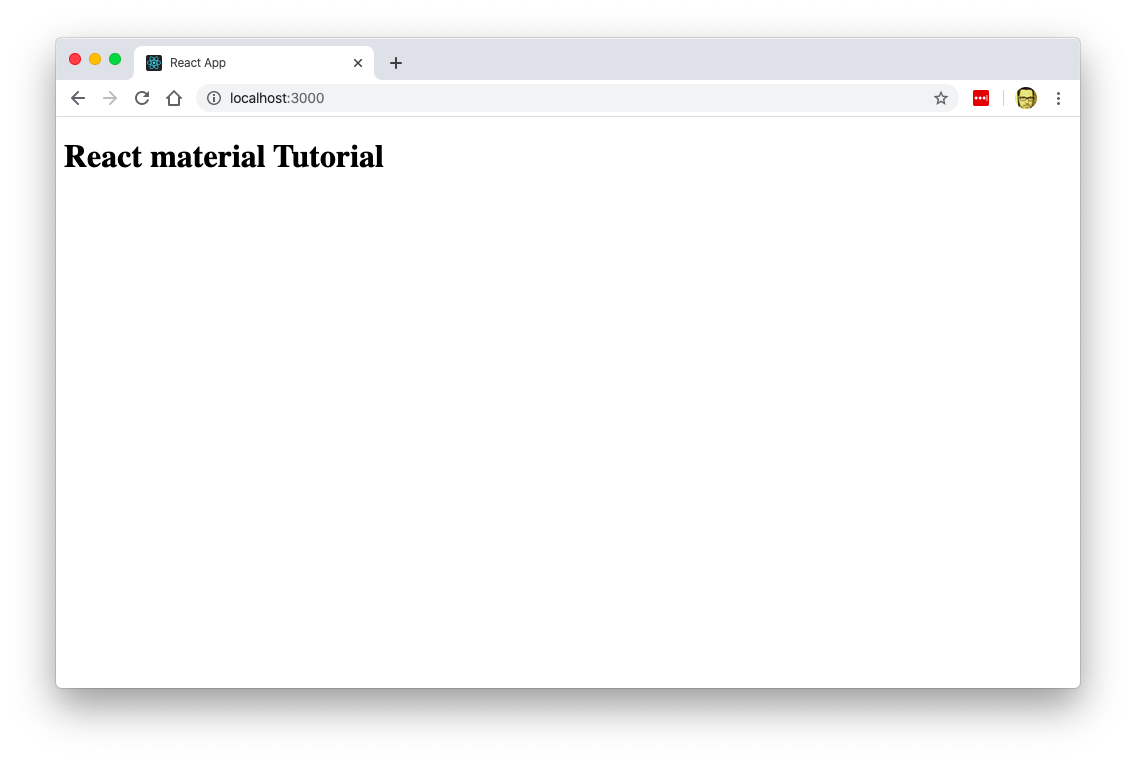
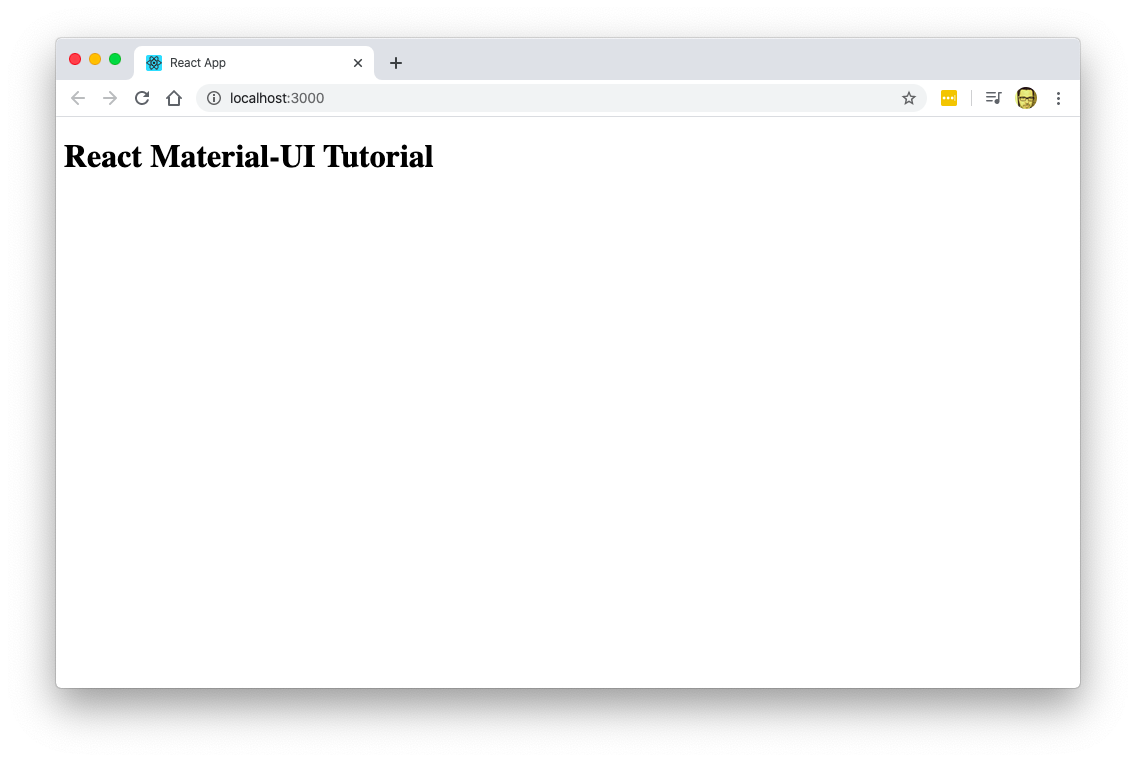
Changing the default background of the manifest and changes on the Material-UI article

Changed region(s): [[0.1232, 0.1811, 0.4005, 0.2415], [0.8011, 0.1207, 0.8935, 0.1509], [0.1232, 0.0604, 0.154, 0.0906]]

diff --git a/gatsby-config.js b/gatsby-config.js
@@ -12,7 +12,7 @@ module.exports = {
         name: `Mario's Personal Portfolio and Blog`,
         short_name: `Mario's Blog `,
         start_url: `/`,
-        background_color: `#F50057`,
+        background_color: `#2962ff`,
         theme_color: `#2962ff`,
         display: `minimal-ui`,
         icon: `src/images/icon-developer.png`, // This path is relative to the root of the site.

diff --git a/posts/react-material-ui-tutorial/index.md b/posts/react-material-ui-tutorial/index.md
@@ -1,7 +1,7 @@
 ---
 title: Getting Started with React Material-UI
 date: 2020-02-20
-tags: javascript, materialui, css, react
+tags: javascript, material-ui, css, react
 ---
 
 # Getting Started with React Material-UI
@@ -13,44 +13,42 @@ But the problem is that the official docs assume that you already are familiar w
 
 So I decided to create my own documentation just for that and here it is.
 
+In this blog entry I'm going to create a very simple React App that does nothing, but that it looks good thanks to Material-UI.
+
 ## What is Material-UI ?
 
-Well... Its just a bunch of React components styled using the [material design principles](https://material.io) that are ready to use.
+If you are here is very probable that you already know Material-UI is... But just in case, Material-UI its just a bunch of React components styled using the [material design principles](https://material.io) that are ready to use in any React App.
 
 If you want to start a React Project and don't want to get caught up in the details of styling you app, then Material-UI is just what you need.
 
-
 ## Create a react project and install Material-UI
 
-This is very straight forward. We just need to...
+Lets start our App by doing the following:
 
 - Create the project with `create-react-app`
 - Install Material-UI to the project
 - Add the Roboto Google font
-- Clenaup files
-
-Additionally (and recommended)
-
+- Cleanup files
 - Add the responsive meta-tag
-- Reset the styles with [CssBaseline](https://material-ui.com/components/css-baseline/)
 
-
-**Note* I'm using `yarn` instead of `npm` for installing packages and executing commands since its  faster. You can use `npm` without any problems.
+**Note I'm using `yarn` instead of `npm` for installing packages and executing commands since its  faster. You can use `npm` without any problems.**
 
 ### Create the react app and install Material-UI
 
-You must know this by now. If not [read and follow the tutorial](https://reactjs.org/tutorial/tutorial.html)
+You must know this by now. If not, then you should be following [this tutorial instead](https://reactjs.org/tutorial/tutorial.html)
 
 ```bash
 mkdir react-material-ui-tutorial
 cd react-material-ui-tutorial
-npx create-react-app .
+yarn create react-app . # npx create-react-app .
 yarn add @material-ui/core
 ```
 
 ### Add the Roboto Font and add the responsive meta-tag
 
-Then open `public/index.html` with your browser and add the following lines before the closing of the `<head>` tag:
+This 2 lines should go into `public/index.html` before the closing of the `<head>` tag.
+
+The first one makes our layout to be responsive. The second one loads the _Roboto_ font form [Google Fonts](https://fonts.google.com)
 
 ```html
     <meta name="viewport" content="minimum-scale=1, initial-scale=1, width=device-width" />
@@ -64,16 +62,18 @@ Then open `public/index.html` with your browser and add the following lines befo
 
 ### Project cleanup
 
-Now lets remove unneeded files in `src`, leaving only `index.js` and `App.js` in that dir.
+Now lets remove unneeded files the `src/` folder, leaving only `index.js` and `App.js` in that dir.
 
 ```bash
 rm src/{App.css,App.test.js,index.css,logo.svg,serviceWorker.js,setupTests.js}
 tree src/
 ```
 
+> Were using some Bash magic there. Curly brackets allow you to append a list of files.
+
 The `src/` directory should look like this:
 
-```
+```bash
 $ tree src
 src
 ├── App.js
@@ -84,7 +84,7 @@ src
 
 ### Refactor `App.js` and `index.js`
 
-Then refactor `index.js` so it doesn't try to import the removed files. At the end it should look like this:
+Then refactor `src/index.js` so it doesn't try to import the removed files. At the end it should look like this:
 
 ```js
 // src/index.js
@@ -105,12 +105,18 @@ import React from 'react';
 function App() {
   return (
     <div className="App">
-      <h1>React material Tutorial</h1>
+      <h1>React Material-UI Tutorial</h1>
     </div>
   );
 }
 
 export default App;
+```
+
+And start the development to see that we don't have any errors or issues. # Execute this in your terminal:
+
+```bash
+yarn start
 ```
 
 ![Image of the title Exercises](first-yarn-start.png)
@@ -121,9 +127,9 @@ Great now we can start adding Material-UI components
 
 If you've worked with a framework like Bootstrap, Bulma, Tailwind, etc. You've noticed that one of the first things they recommend is to use a CSS library like `normalize.css` or `reboot.css` to unify or resets the display of native controls.
 
-Materia-UI has its own Control just for that and it called [CssBaseline](https://material-ui.com/components/css-baseline/).
+Material-UI has its own Control just for that and it called [CssBaseline](https://material-ui.com/components/css-baseline/).
 
-Adding baseline couldn't be easier. Just import the component and add it in  `index.js`
+Adding baseline couldn't be easier. Just import the component and add it in  `src/index.js`
 
 ```js {4,8-11}
 // src/index.js
@@ -152,9 +158,16 @@ That would render the following:
 
 Its not much.. but now we have a base line (hence the name) for all the styles so they look the same **in all browsers**
 
-## Adding some test content
+## Adding our first elements
 
-Before we continue with our setup. Lets create some content in our app so we can actually see some changes. Lest add a couple of buttons and some text in `App.js`:
+Adding Material-UI is usually a 2 step process:
+
+- Import the component you need
+- Include it in your JSX
+
+Of course you can (and sometimes must) use properties to configure the component to your needs.
+
+So lets change our `src/App.js` file to include some content and a couple of buttons:
 
 ```js {2,9-16}
 // src/App.js
@@ -164,7 +177,7 @@ import { Button } from '@material-ui/core'
 function App() {
   return (
     <div className="App">
-      <h1>React material Tutorial</h1>
+      <h1>React Material-UI Tutorial</h1>
       <h2>This Could be a subtitle</h2>
       <p>And this is a paragraph</p>
       <Button variant="contained" color="primary">
@@ -178,14 +191,65 @@ function App() {
 }
 
 export default App;
-
 ```
 
 Which would render this:
 
 ![Some test content](start-content.png)
 
-With this basic content we can add some material magic and actually see the changes.
+As you can see, we now have a page with 2 buttons: One primary (the blue one) and one secondary.
+
+## Create layouts using Grid
+
+Right now our content seems kind of _Thrown out There_. that's because we're not using any kind of layout or placement.
+
+Lets fix that by using a [Material-UI Grid system](https://material-ui.com/components/grid/) so our content is in the middle and centered. Lets edit `src/App.js` with the following:
+
+```js
+import React from 'react';
+import { Button, Grid, Container } from '@material-ui/core';
+
+function App() {
+  return (
+    <div className="App">
+      <Container maxWidth="md">
+        <Grid item md={12}>
+          <h1>React Material-UI Tutorial</h1>
+          <h2>This Could be a subtitle</h2>
+          <p>And this is a paragraph</p>
+          <Grid container>
+            <Grid item md={6}>
+              <Button variant="contained" color="primary">
+                A Primary button
+              </Button>
+            </Grid>
+            <Grid item md={6}>
+              <Button variant="contained" color="secondary">
+                A Secondary button
+              </Button>
+            </Grid>
+          </Grid>
+        </Grid>
+      </Container>
+    </div>
+  );
+}
+
+export default App;
+```
+
+If you look closely, you can see that we added a `<Container />` tag and multiple `<Grid />` tags.
+
+If you've worked with [Bootstrap](https://getbootstrap.com) you'll see that `<Container />` works very similar to the `.container` class: It incloses the content in a container with a fixed with. In my case I used a container of 960px wide, hence the `maxWidth="md"` parameter.
+
+The `<Grid />` tag has a caveat: You can use the `item` or `container` prop.
+
+Again, if you come from Bootstrap, then `<Grid container>` it's like an element with `.row` class: A block element that is designed to contain cells.
+
+If you use a `<Grid item>` you are actually creating a cell and you **can** specify a with. That's why I used the `md={6}` parameter.
+
+If you want to know more about the _Grid_ parammeters, you can browse the [API documentation](https://material-ui.com/api/grid/)
+
 
 ## Create a Theme
 
@@ -246,7 +310,7 @@ And we would have the following:
 
 Until now we haven't used Material-UI, we just setted up the project.
 
-So lets start by changing the ugly font face in the H1 tag to use roboto. Just open `App.js` and add the following lines:
+So lets start by changing the ugly font face in the H1 tag to use Roboto. Just open `App.js` and add the following lines:
 
 ```js {3,10}
 // App.js
